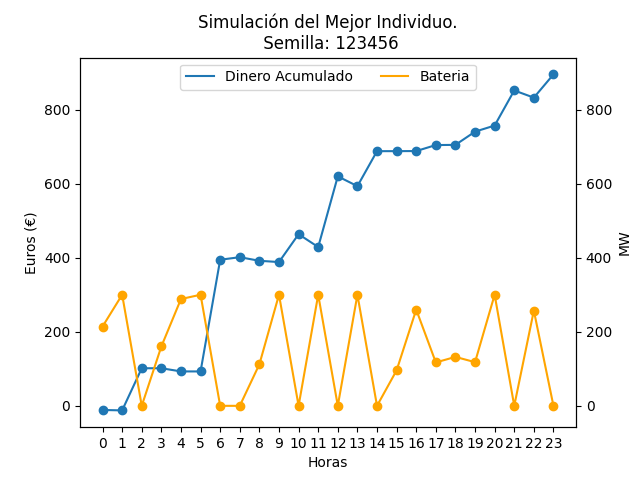
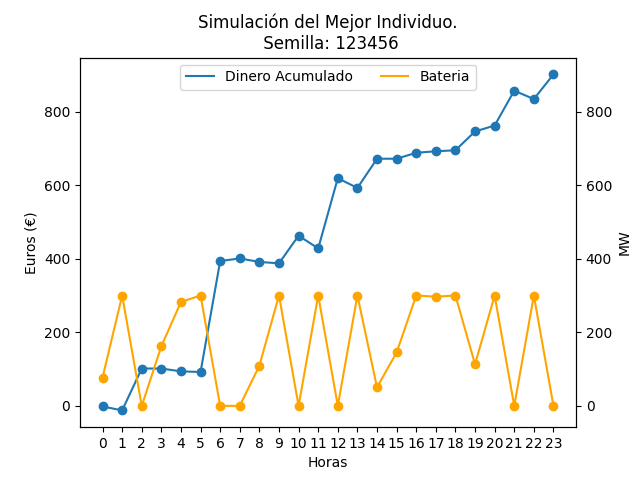
auto-commit:05/05/2023 a las 21:56:33,26

diff --git a/2º Cuatrimestre/[MByHB] Modelos Bioinspirados y Heurísticas de Búsquedas/Prácticas/Practica3_AlgoritmosGeneticos/Multimodal/Algoritmo_Genetico_Multimodal.py b/2º Cuatrimestre/[MByHB] Modelos Bioinspirados y Heurísticas de Búsquedas/Prácticas/Practica3_AlgoritmosGeneticos/Multimodal/Algoritmo_Genetico_Multimodal.py
@@ -36,7 +36,10 @@ def cruce(individuo1, individuo2):
 
 
 def torneo(valores_cromosomas, k):
+
+    valores_cromosomas[valores_cromosomas < 0] = 0
     probabilidades = valores_cromosomas / sum(valores_cromosomas)
+    # print(probabilidades)
     # print("\n")
     # print(k)
     # print(len(valores_cromosomas))
@@ -67,18 +70,14 @@ def clearing(poblacion, israndom):
     for i in range(len(fitness_poblacion)):
         if fitness_poblacion[indices_ordenados[i]] > 0:
             numGanadores = 1
-            # print(fitness_poblacion[indices_ordenados[i]])
-            # print(f"i={i}")
             for j in range(i+1,len(fitness_poblacion)):
-                print(Utils.distanciaEuclidea(poblacion[indices_ordenados[i]], poblacion[indices_ordenados[j]]))
                 if fitness_poblacion[indices_ordenados[j]] > 0 and \
                         Utils.distanciaEuclidea(poblacion[indices_ordenados[i]], poblacion[indices_ordenados[j]]) < Utils.RADIO_CLEARING:
                     if numGanadores < Utils.KAPPA:
                         numGanadores += 1
                     else:
                         fitness_poblacion[indices_ordenados[j]] = 0
-    print(fitness_poblacion)
-    print("\n")
+    # print(fitness_poblacion)
     return poblacion[fitness_poblacion[indices_ordenados] != 0] # Devuelve los individos que no han sido eliminados.
 def algoritmo_genetico_generacional_multimodal(semilla, isRandom):
     np.random.seed(semilla)
@@ -136,7 +135,7 @@ def algoritmo_genetico_generacional_multimodal(semilla, isRandom):
         hijos = np.zeros(shape=(Utils.POBLACION_INICIAL, 24), dtype=int)
         # Añado la élite a la siguiente generación:
         hijos[0:Utils.ELITE, :] = elite
-        for i in range(Utils.ELITE, Utils.POBLACION_INICIAL, 2):
+        for i in range(Utils.ELITE, Utils.POBLACION_INICIAL-2, 2):
             if np.random.uniform() < 0.8: # Probabilidad de cruce del 80%
                 h1, h2 = cruce(poblacion[padres[i-Utils.ELITE][0].copy()],
                                poblacion[padres[Utils.ELITE][1].copy()])
@@ -146,10 +145,12 @@ def algoritmo_genetico_generacional_multimodal(semilla, isRandom):
             hijos[i] = h1
             hijos[i + 1] = h2
 
+        hijos[Utils.POBLACION_INICIAL-2] = np.random.randint(-100, 100, 24, dtype=int)
+        hijos[Utils.POBLACION_INICIAL-1] = np.random.randint(-100, 100, 24, dtype=int)
         # Mutar P(t)
         hijos_mutados = np.apply_along_axis(mutacion, 1, hijos.copy())
         poblacion = hijos_mutados
-        # print(f"Nueva Pob. {len(poblacion)}")
+        # print(f"{poblacion}")
         # Evaluar P(t)
         valores_poblacion, dinero_acumulado, bateria_acumulada = Utils.fitnessPoblacion(poblacion, isRandom)
         numero_evaluaciones += len(poblacion)
@@ -176,7 +177,7 @@ def algoritmo_genetico_generacional_multimodal(semilla, isRandom):
 
 
 if __name__ == "__main__":
-    Utils.grafica(algoritmo_genetico_generacional_multimodal, israndom=False)
+    Utils.grafica(algoritmo_genetico_generacional_multimodal, israndom=True)
     # clearing(Utils.inicializar_poblacion(Utils.POBLACION_INICIAL),israndom=False)
     # print(algoritmo_genetico_generacional_multimodal(123456, isRandom=False)[0])
 

diff --git a/2º Cuatrimestre/[MByHB] Modelos Bioinspirados y Heurísticas de Búsquedas/Prácticas/Practica3_AlgoritmosGeneticos/Utils.py b/2º Cuatrimestre/[MByHB] Modelos Bioinspirados y Heurísticas de Búsquedas/Prácticas/Practica3_AlgoritmosGeneticos/Utils.py
@@ -21,7 +21,7 @@ NUM_ITERACIONES_CHC = 2000
 
 # Multimodal
 NUMERO_GENERACIONES_CLEARING = 100
-RADIO_CLEARING = 200
+RADIO_CLEARING = 50
 KAPPA = 6
 
 # Problema
@@ -123,7 +123,7 @@ def fitness(solucion, israndom):
             # Compro un porcentaje de lo que me sobra de bateria. De esta forma no podemos sobrepasar el limite de la
             # bateria en ningun momento.
             energia_comprada = (solucion[hora] / 100) * (capacidad_bateria - bateria)  # (Sale negativo)
-            dinero += energia_comprada * precio_compra[hora]  # Como energia_comprada es < 0 entonces se resta.
+            dinero += energia_comprada * precio_compra[hora]  # Como energia_comprada es < 0 entonc es se resta.
 
             bateria += -energia_comprada
 
